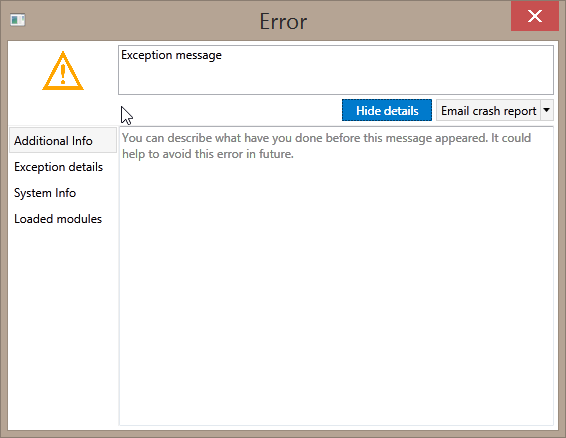
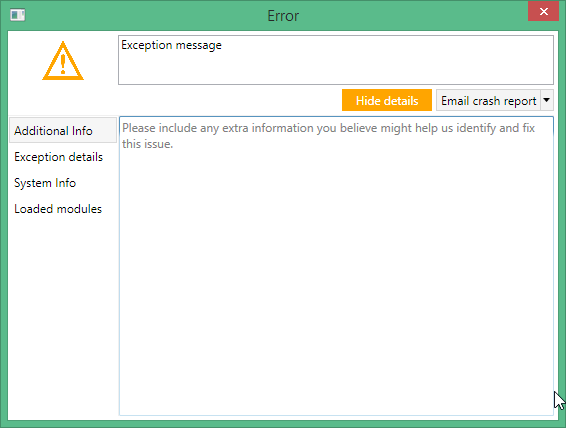
Update images and README

Changed region(s): [[0.0, 0.0, 1.0, 1.0]]

diff --git a/README.md b/README.md
@@ -42,12 +42,25 @@ The error message will look like this:
 
 Clicking on the "Show details" button will display more information, and give the user the chance to add extra information before sending the report.
 
-![Orc.CrashReporting 02](doc/images/Orc.CrashReporting_02.png)
+### Additional info:
+![Additional info](doc/images/Orc.CrashReporting_02.png)
 
-The exception details:
+### Exception details:
 
-![Orc.CrashReporting 03](doc/images/Orc.CrashReporting_03.png)
+![Exception details](doc/images/Orc.CrashReporting_03.png)
+
+### System info:
+
+![System info](doc/images/Orc.CrashReporting_04.png)
+
+### Loaded modules:
+
+![Loaded modules](doc/images/Orc.CrashReporting_05.png)
+
+### Sending the report
 
 Multiple messaging providers can be implemented and will be shown in the drop down menu. 
 
-![Orc.CrashReporting 04](doc/images/Orc.CrashReporting_04.png)
+A default email provider is available by default.
+
+![Orc.CrashReporting 04](doc/images/Orc.CrashReporting_06.png)
